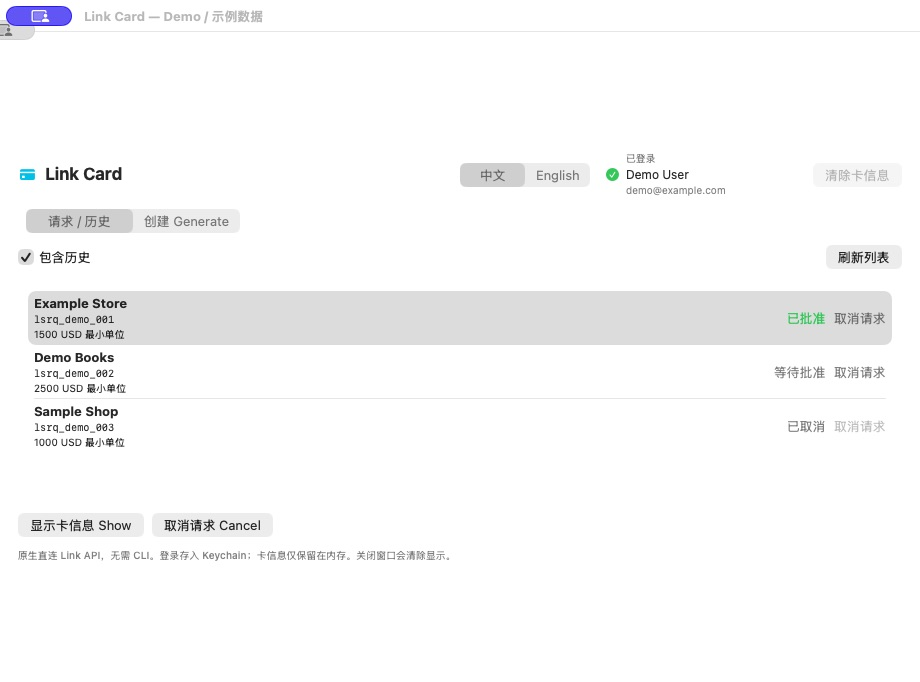
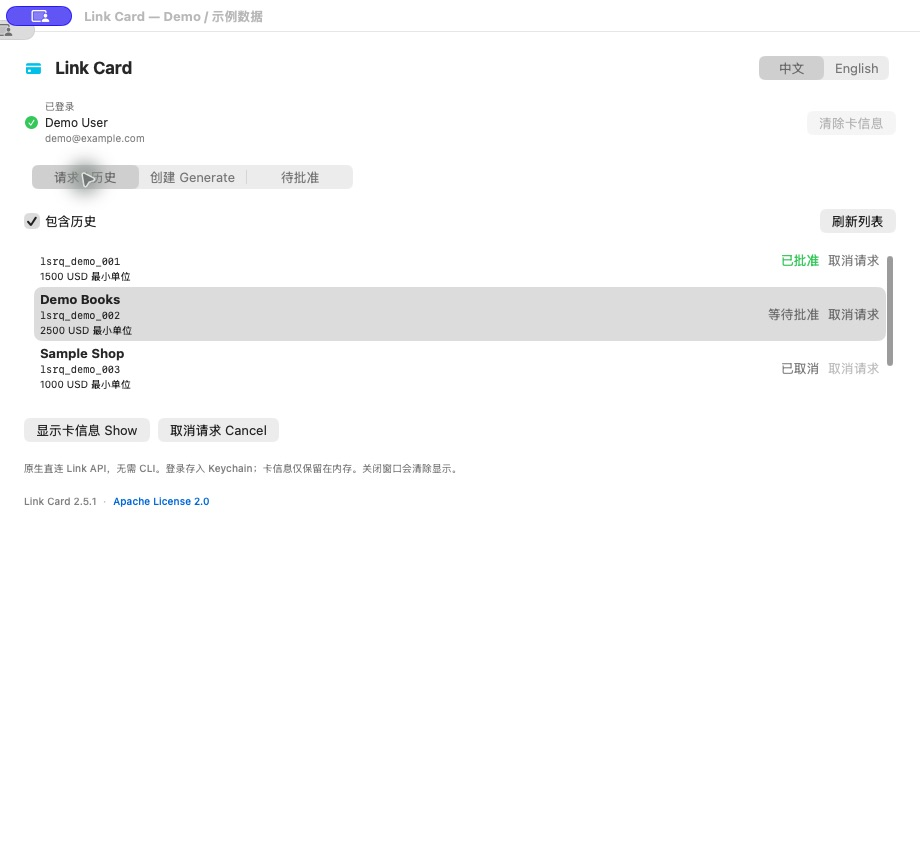
Refresh bilingual usage guides and screenshots for v2.5.1

diff --git a/docs/USAGE.en.md b/docs/USAGE.en.md
@@ -32,9 +32,19 @@ Closing the window leaves the app in the menu bar. Reopen it from the icon. The 
 
 Use **中文 / English** at the top of the window. Controls, menu-bar items, confirmations, card field labels, and existing status messages update immediately. Your choice survives restarts. Merchant names, purchase context, IDs, and card data are preserved.
 
+### Resize the window and edit fields
+
+These screenshots show **v2.5.1**. Drag a window edge to resize it: narrow windows use one form column and wider windows arrange fields into multiple columns. Scroll down to reach expiry, generated context, and the create button. Check the version in the footer; if the old form still appears, quit the old app before replacing it with the latest build.
+
+| Narrow single-column form | Scroll to the bottom |
+| --- | --- |
+| ![Chinese form at 540-point window width](images/responsive-narrow-zh.jpg) | ![Expiry, generated context, and create button remain accessible by scrolling](images/responsive-narrow-bottom-zh.jpg) |
+
+All text input fields support **⌘C Copy, ⌘V Paste, ⌘X Cut, ⌘A Select All, ⌘Z Undo, and ⇧⌘Z Redo**, also available through the macOS Edit menu. Click a field first; use ⌘A followed by paste to replace its contents. The payment-method ID can be pasted or edited after selecting a method. Context is generated automatically and can be selected and copied; it needs no manual entry.
+
 ## 2. Log in to Link
 
-1. Click **Log in to Link** at the top right.
+1. Click **Log in to Link** below the title.
 2. Click **Open Link authorization ↗** to open the official Link website.
 3. Sign in to your account and enter the app's authorization phrase if requested.
 4. Return to the app. The login button is replaced by **Logged in** and the name/email returned by Link.
@@ -91,6 +101,10 @@ The selected Valid until is included in the review dialog and sent as request `e
 2. Review and personally approve the request on the official Link page.
 3. Keep the app window open. The app checks every two seconds for up to ten minutes and retrieves card details once approved.
 4. If the display does not update, click **Refresh after approval**, or select the request and click **Show card details**.
+
+![Approve tab showing an earlier pending request, purchase context, and Link approval link; Chinese interface](images/approve-zh.jpg)
+
+**Return to an earlier request:** Open Approve, click Refresh list, and select a request to review its merchant URL, requested amount, and context. Use Get approval link if none is shown. Review request reloads its status and starts waiting for approval. Approved requests leave the pending list after refresh; use Requests / History to view their card details. An empty-state message appears when no requests need approval.
 
 The app does not approve purchases for you. Reaching the ten-minute polling limit only stops automatic checks; it does not cancel the request.
 
@@ -151,7 +165,7 @@ This is **spend-request history**. Row amounts are request amounts, not a dedica
 | --- | --- |
 | No active requests | Enable Include history or create a request |
 | No payment methods | Check the account, click Load, and follow any account/payment-method instructions returned by Link |
-| Create button is disabled | Check required fields, the 100-character context minimum, and whether another action is running |
+| Create button is disabled | Check required fields, whether another action is running |
 | Invalid amount or URL | Use positive integer minor units and a complete `http://` or `https://` URL |
 | `pending_approval`, with no card number | Open that request's approval link, approve it, then refresh |
 | Expired login or HTTP 401 | Use Log in to Link, then refresh |

diff --git a/docs/USAGE.zh-CN.md b/docs/USAGE.zh-CN.md
@@ -32,6 +32,16 @@ open dist/LinkCard.app
 
 窗口顶部提供 **中文 / English** 切换控件。切换后，按钮、菜单栏菜单、确认框、卡信息字段和已有状态提示会即时更新，重启后也会保留选择。商家名称、用途、请求 ID 和卡信息本身不会被翻译。
 
+### 窗口缩放与输入快捷键
+
+使用指南截图对应 **v2.5.1**。拖动窗口边缘可调整尺寸：窄窗口使用单列表单，宽窗口自动分列；内容较长时向下滚动即可看到截止时间、自动用途说明和创建按钮。底部显示 App 版本；如果仍是旧表单，请退出旧 App 后替换为最新版。
+
+| 窄窗口单列 | 滚动至底部 |
+| --- | --- |
+| ![540 宽的中文单列表单](images/responsive-narrow-zh.jpg) | ![滚动后可见截止时间、自动用途和创建按钮](images/responsive-narrow-bottom-zh.jpg) |
+
+所有文本输入框支持 **⌘C 复制、⌘V 粘贴、⌘X 剪切、⌘A 全选、⌘Z 撤销、⇧⌘Z 重做**，也可使用 macOS 的「编辑」菜单。先点击输入框，将光标放入其中；⌘A 后粘贴可替换整个字段。付款方式下拉选择后，其 ID 仍可手动粘贴修改。Context 自动生成，无需输入；可选中文本复制。
+
 ## 2. 登录 Link
 
 1. 点击窗口右上角 **登录 Link**。
@@ -91,6 +101,10 @@ open dist/LinkCard.app
 2. 在 Link 官方页面核对并亲自批准本次请求。
 3. 保持 App 窗口打开。App 每两秒检查一次状态，最多等待十分钟；发现已批准后自动读取卡信息。
 4. 如果没有自动更新，点击 **已批准，刷新卡信息**，或在列表中选中请求后点击 **显示卡信息 Show**。
+
+![待批准页：选中之前的请求，核对用途并打开 Link 批准链接](images/approve-zh.jpg)
+
+**查看之前的请求：** 打开「待批准」，点击「刷新列表」，选中请求查看商家 URL、请求金额和用途。没有链接时点击「获取批准链接」；点击「查看请求」可重新读取状态并开始等待批准。已批准的请求会在刷新后离开待批准列表，可到「请求 / 历史」查看卡信息。没有待批准请求时页面会显示空状态提示。
 
 App 不会替你批准购买请求。等待超过十分钟只表示 App 停止自动检查，不代表请求已取消。
 

diff --git a/docs/images/README.md b/docs/images/README.md
@@ -1,12 +1,16 @@
 # Documentation screenshots
 
-These JPEG screenshots were captured from an offline demo using the production SwiftUI `ContentView` with an injected sample model. The demo blocked all HTTP requests and did not read real credentials.
+Updated for **Link Card v2.5.1**. These JPEG screenshots were captured from an offline demo using the production SwiftUI `ContentView` with an injected sample model. The demo blocked all HTTP requests and did not read real credentials.
 
 - `overview-zh.jpg`: signed-in account, request selection, and history statuses.
 - `login-zh.jpg`: browser authorization link and a fictional phrase.
-- `create-en.jpg`: English form filled with a fictional payment method and purchase.
+- `create-en.jpg`: responsive English creation form with automatically generated context.
 - `create-review-en.jpg`: review dialog; the submission button was not clicked.
 - `card-details-zh.jpg`: fictional virtual card fields and billing address.
 - `cancel-confirmation-zh.jpg`: cancellation dialog; the cancellation button was not clicked.
 
 All accounts, merchants, IDs, authorization phrases, addresses, and card details in these images are examples. They are not real payment credentials. No purchase or cancellation was performed to make these screenshots.
+
+- `approve-zh.jpg`: pending-request review and the official Link approval link.
+- `responsive-narrow-zh.jpg`: 540-point window with single-column fields.
+- `responsive-narrow-bottom-zh.jpg`: expiry, generated context, and creation button reached by scrolling.

diff --git a/README.md b/README.md
@@ -25,7 +25,7 @@ Download the ZIP, extract it, and drag **LinkCard.app** into Applications. Open 
 | --- | --- |
 | ![Chinese request history with a fictional signed-in account](docs/images/overview-zh.jpg) | ![English creation form with fictional purchase details](docs/images/create-en.jpg) |
 
-Screenshots use fictional demo data. See the [illustrated usage guide](docs/USAGE.en.md) for login, card details, and creation/cancellation confirmations.
+Screenshots show v2.5.1 with fictional demo data. The [illustrated usage guide](docs/USAGE.en.md) also covers approval review, narrow-window layouts, editing shortcuts, login, card details, and confirmations.
 
 ## Installation
 

diff --git a/README.zh-CN.md b/README.zh-CN.md
@@ -25,7 +25,7 @@
 | --- | --- |
 | ![显示示例登录账户的中文历史列表](docs/images/overview-zh.jpg) | ![使用虚构购买信息的英文创建表单](docs/images/create-en.jpg) |
 
-截图使用虚构示例数据。使用说明还包含登录、卡详情和创建／取消确认框截图。
+截图更新至 v2.5.1，均使用虚构示例数据。使用说明还包含待批准页、窄窗口布局、登录、卡详情及创建／取消确认框。
 
 ## 安装
 
